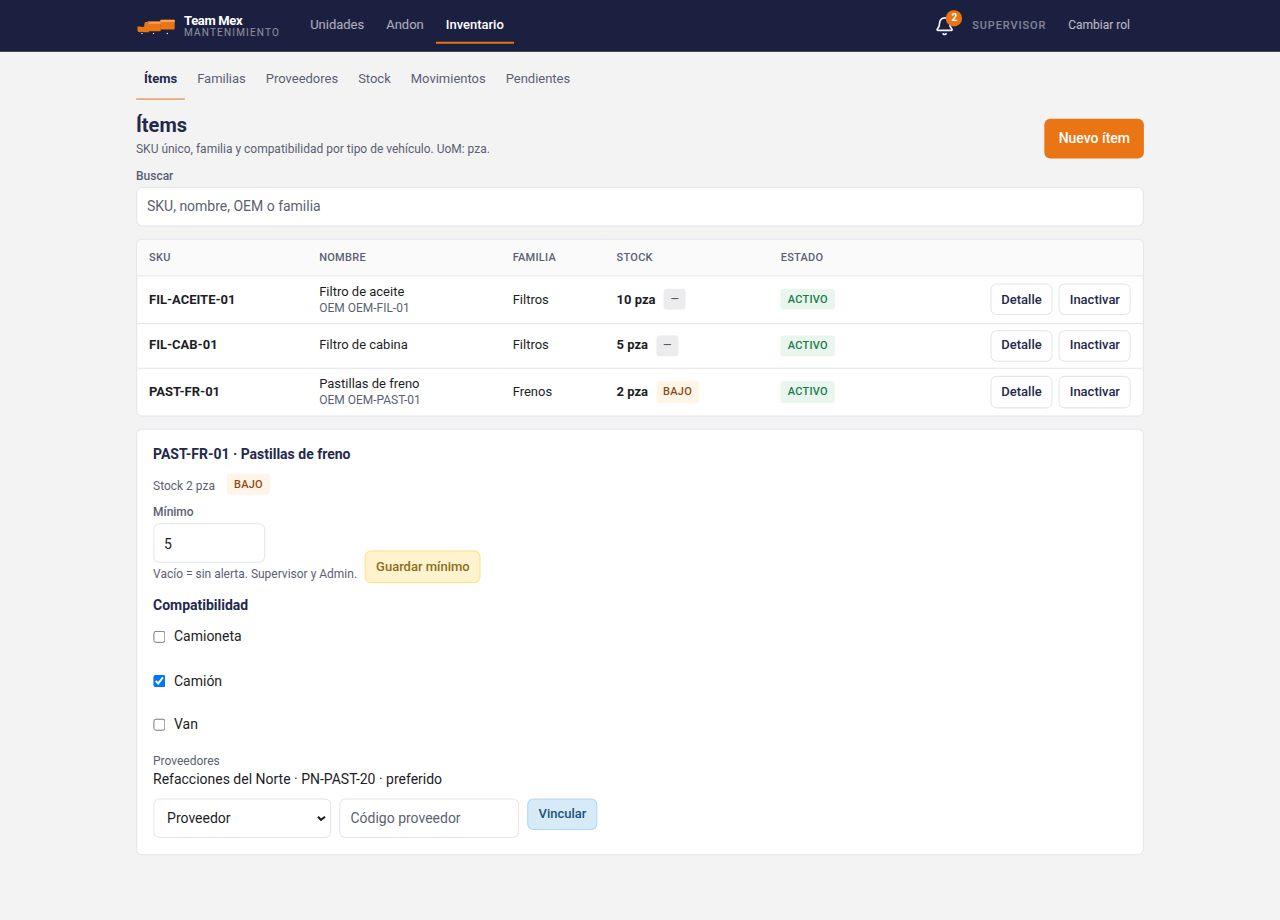
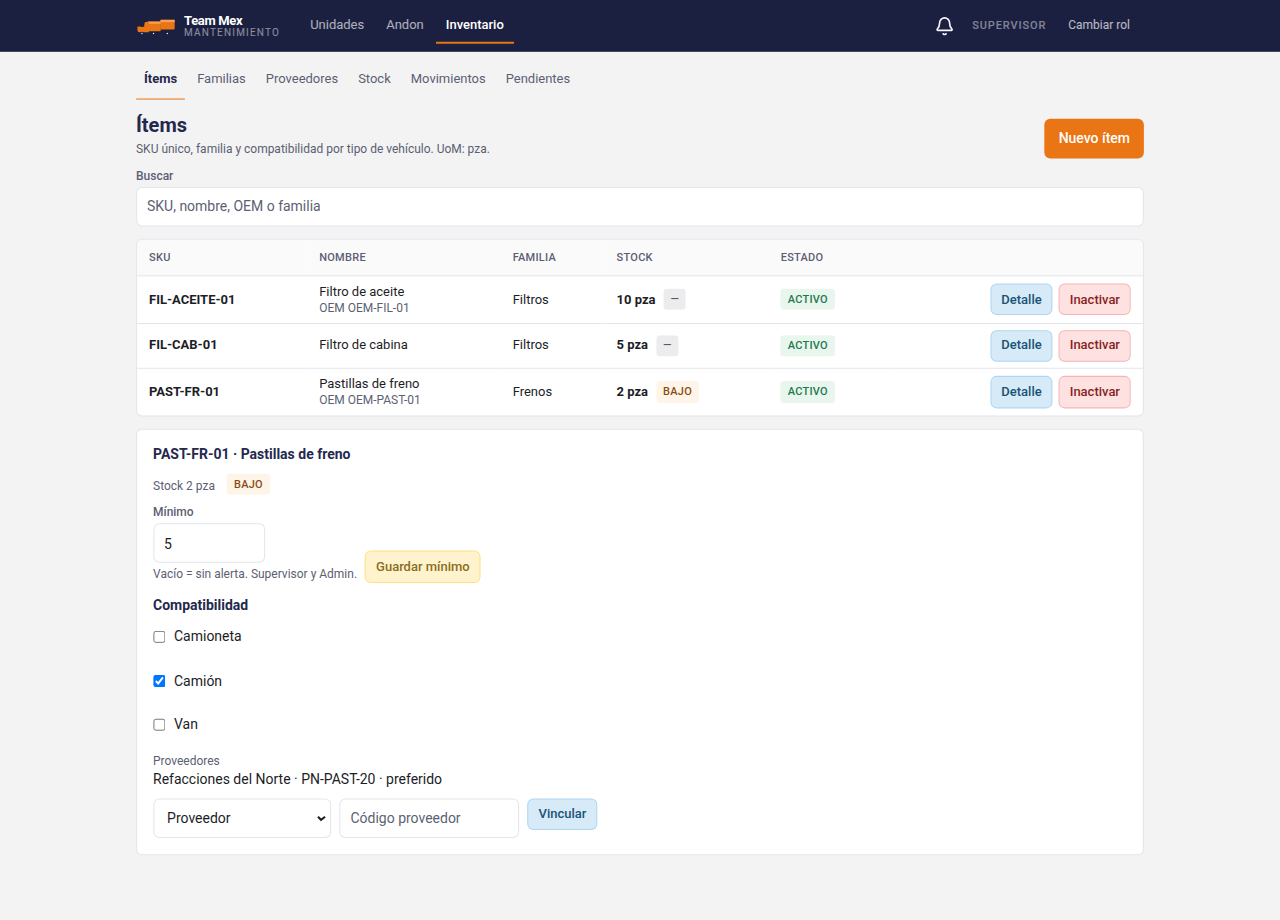
docs: reshoot Ítems list with linkish Detalle and dangerSoft Inactivar

Changed region(s): [[0.75, 0.3043, 0.9062, 0.4565], [0.7188, 0.0, 0.75, 0.0304]]

diff --git a/docs/design-system/ui-semantic-button-pastels-v0.md b/docs/design-system/ui-semantic-button-pastels-v0.md
@@ -40,6 +40,8 @@ Variantes shadcn: `positive` | `adjust` | `linkish` | `quiet` | `dangerSoft`. Cl
 ## Evidencia
 
 - `docs/screenshots/pasteles_stock_lista.png`
+- `docs/screenshots/pasteles_stock_items.png`
+- `docs/screenshots/pasteles_stock_items_mobile.png`
 - `docs/screenshots/pasteles_stock_ficha.png`
 - `docs/screenshots/pasteles_stock_ficha_mobile.png`
 - `docs/screenshots/pasteles_stock_mobile.png`
